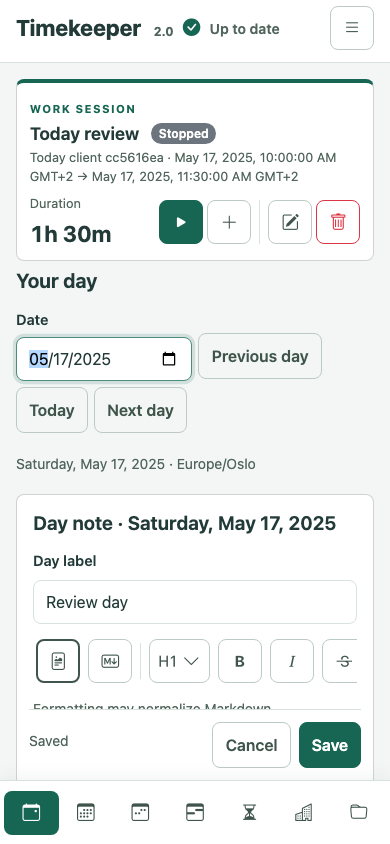
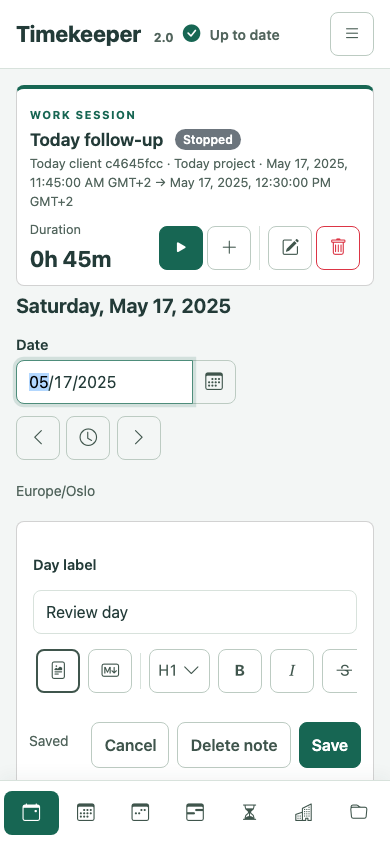
Harden archive snapshots and refresh Today documentation

diff --git a/server/app/src/test/java/net/resheim/timekeeper/server/WeekNoteHttpTest.java b/server/app/src/test/java/net/resheim/timekeeper/server/WeekNoteHttpTest.java
@@ -8,9 +8,12 @@ import io.quarkus.test.junit.QuarkusTest;
 import io.quarkus.test.junit.QuarkusTestProfile;
 import io.quarkus.test.junit.TestProfile;
 import io.restassured.response.Response;
+import jakarta.inject.Inject;
+import static net.resheim.timekeeper.server.JsonValues.*;
 
 @QuarkusTest @TestProfile(WeekNoteHttpTest.Profile.class)
 class WeekNoteHttpTest {
+    @Inject ServerStore store;
     public static class Profile implements QuarkusTestProfile {
         public Map<String,String> getConfigOverrides(){return Map.of("quarkus.datasource.jdbc.url","jdbc:h2:mem:week_note_http");}
     }
@@ -43,5 +46,9 @@ class WeekNoteHttpTest {
         String week="2027-W01";var first=get("test-a",week);
         assertEquals(400,given().header("Authorization","Bearer test-a").header("If-Match",first.header("ETag")).contentType("application/json").body("{}").put("/api/v1/week-notes/"+week).statusCode());
         assertEquals(422,put("test-a",week,first.header("ETag"),"ø".repeat(100001)).statusCode());
+        store.transaction("a",()->{
+            var malformed=array().add(object().put("week","2027-W02").put("filename","2027-W02.md").put("markdown",new String(new char[]{(char)0xd800})));
+            assertThrows(ApiFailure.class,()->new WeekNotes(store).restore(malformed));return null;
+        });
     }
 }

diff --git a/server/app/src/test/java/net/resheim/timekeeper/server/AccountArchiveHttpTest.java b/server/app/src/test/java/net/resheim/timekeeper/server/AccountArchiveHttpTest.java
@@ -17,6 +17,18 @@ import org.junit.jupiter.api.Test;
 
 @QuarkusTest @TestProfile(AccountArchiveHttpTest.Profile.class)
 class AccountArchiveHttpTest {
+    @Test void concurrentSessionRefreshesDoNotInterruptPrivateArchives() throws Exception {
+        var login=given().header("Authorization","Bearer test-a").post("/api/v1/auth/token-login");login.then().statusCode(200);
+        String cookie=login.header("Set-Cookie").split(";",2)[0];
+        try(var workers=java.util.concurrent.Executors.newFixedThreadPool(12)){
+            for(int round=0;round<3;round++){
+                var start=new java.util.concurrent.CountDownLatch(1);var replies=new ArrayList<java.util.concurrent.Future<Integer>>();
+                for(int index=0;index<12;index++){final String route=index%2==0?"/data/account/export":"/auth/session";
+                    replies.add(workers.submit(()->{start.await();return given().header("Cookie",cookie).get("/api/v1"+route).statusCode();}));}
+                start.countDown();for(var reply:replies)assertEquals(200,reply.get());
+            }
+        }
+    }
     public static class Profile implements QuarkusTestProfile {
         public Map<String,String> getConfigOverrides() {return ArchiveTestDatabase.configuration("http","jdbc:h2:mem:account_archive_http_tests");}
     }

diff --git a/server/app/src/main/java/net/resheim/timekeeper/server/AccountArchive.java b/server/app/src/main/java/net/resheim/timekeeper/server/AccountArchive.java
@@ -39,11 +39,13 @@ class AccountArchive {
         for(int attempt=0;;attempt++) {
             try {return snapshot(principal);}
             catch(RuntimeException failure) {
-                if(attempt>=4 || !snapshotConflict(failure)) throw failure;
+                if(attempt>=15 || !snapshotConflict(failure)) throw failure;
                 // A concurrent authenticated read can update last-seen metadata
                 // after this repeatable-read snapshot starts. Retry the complete
                 // private export, with fresh authorization, before streaming bytes.
-                try {Thread.sleep(5L*(attempt+1));}
+                // Leave enough time for a burst of session refreshes and other
+                // exports to finish; a short retry window can starve one export.
+                try {Thread.sleep(Math.min(100L,10L*(attempt+1)));}
                 catch(InterruptedException stopped) {Thread.currentThread().interrupt();throw failure;}
             }
         }

diff --git a/server/app/src/main/java/net/resheim/timekeeper/server/WeekNotes.java b/server/app/src/main/java/net/resheim/timekeeper/server/WeekNotes.java
@@ -92,7 +92,8 @@ final class WeekNotes {
     void restore(JsonNode notes){
         var seen=new HashSet<String>();for(var note:notes){
             Week week=week(note.path("week").asText());if(!seen.add(week.name())||!week.filename().equals(note.path("filename").asText())||!note.path("markdown").isTextual())throw ApiFailure.validation();
-            byte[] bytes=note.path("markdown").asText().getBytes(StandardCharsets.UTF_8);
+            String markdown=note.path("markdown").asText();if(!StandardCharsets.UTF_8.newEncoder().canEncode(markdown))throw ApiFailure.validation();
+            byte[] bytes=markdown.getBytes(StandardCharsets.UTF_8);
             if(bytes.length>DayNotes.BODY_BYTES)throw ApiFailure.validation();
             var current=get(week);if(current.path("version").asLong()>0&&!current.path("deleted").asBoolean()){
                 if(Arrays.equals(document(week),bytes))continue;throw ApiFailure.conflict();

diff --git a/docs/development/WEB-CLIENT.md b/docs/development/WEB-CLIENT.md
@@ -107,24 +107,24 @@ editing for unsupported Obsidian syntax. It does not save calendar notes. See
 the [evaluation and preservation contract](MARKDOWN-EDITOR.md) for the editor
 choice, dependency licenses, bundle measurements, tests and integration limits.
 
-## Calendar month view
+## Today and Calendar views
 
-**Today** opens a selected day with its Markdown journal in the main column.
-The date field and adjacent buttons move between days; the mini calendar selects
-any visible date and has separate month controls. The sidebar shows work
-sessions clipped to that day in the account time zone, imported all-day calendar
-plans, tasks scheduled for the selected date, and tasks in progress or tied to
-the active activity. Scheduled dates and task status come from the task model in
-issue #413; older servers show empty task sections. Selecting a work
-session opens its editor. The inline journal uses the same saved day note and
-conflict handling as Calendar and Week. Unsaved changes require confirmation
-before selecting another date. On narrow screens the sidebar follows the journal.
+**Today** is the default workspace tab. It opens a selected day with its Markdown
+journal in the main column. The date field and adjacent buttons move between
+days. The mini calendar selects any visible date, marks dates containing day
+notes, and opens a weekly Markdown note from each ISO week number. Weekly notes
+sync and export as `YYYY-Www.md`, using the ISO week-based year. The sidebar
+groups work sessions by client and lists all-day and timed calendar events plus
+tasks scheduled for the selected date. Selecting a work session opens its editor.
+The inline journal uses the same saved day note and conflict handling as
+Calendar and Week. Unsaved changes require confirmation before selecting
+another date. On narrow screens the sidebar follows the journal.
 
 ![Today view with journal and day overview](../assets/screenshots/today-desktop.png)
 
 ![Today view on a narrow screen](../assets/screenshots/today-mobile.png)
 
-**Calendar** is the default workspace tab. Its Monday-to-Sunday month grid shows
+**Calendar** has a Monday-to-Sunday month grid that shows
 one client-coloured summary per client and day, with recorded session hours per
 client above it. Only clients with logged time in the selected month are shown.
 Multiple sessions for the same client are combined. Use the controls on the left
